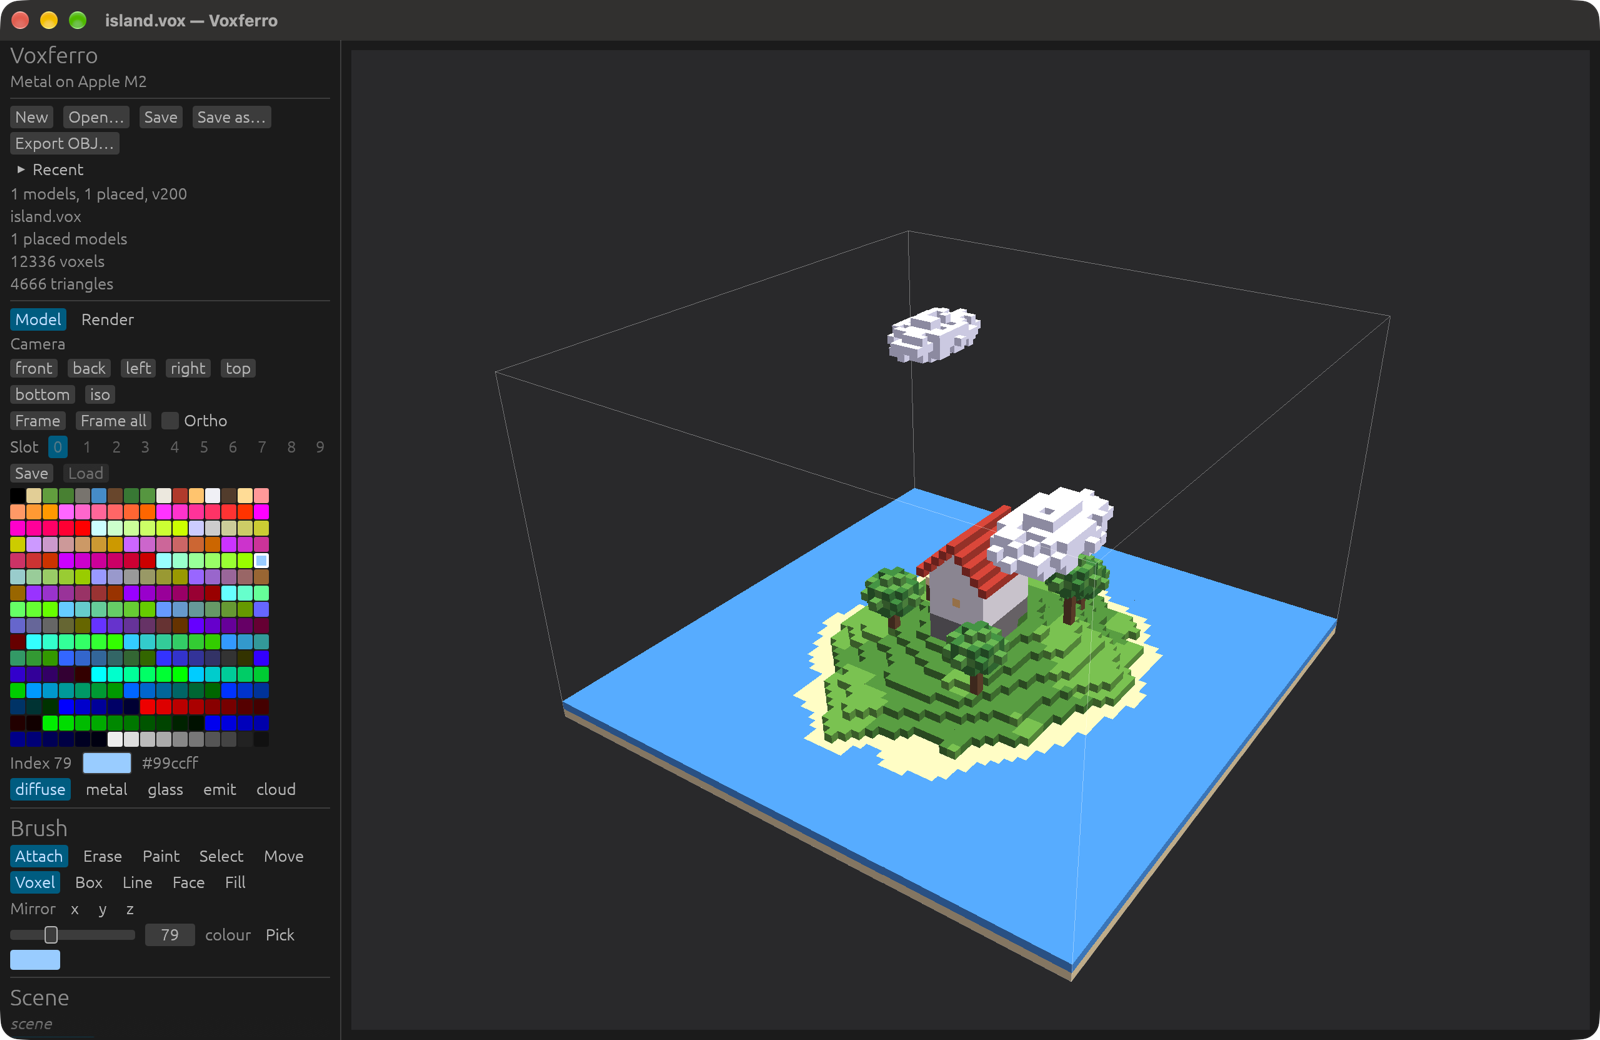
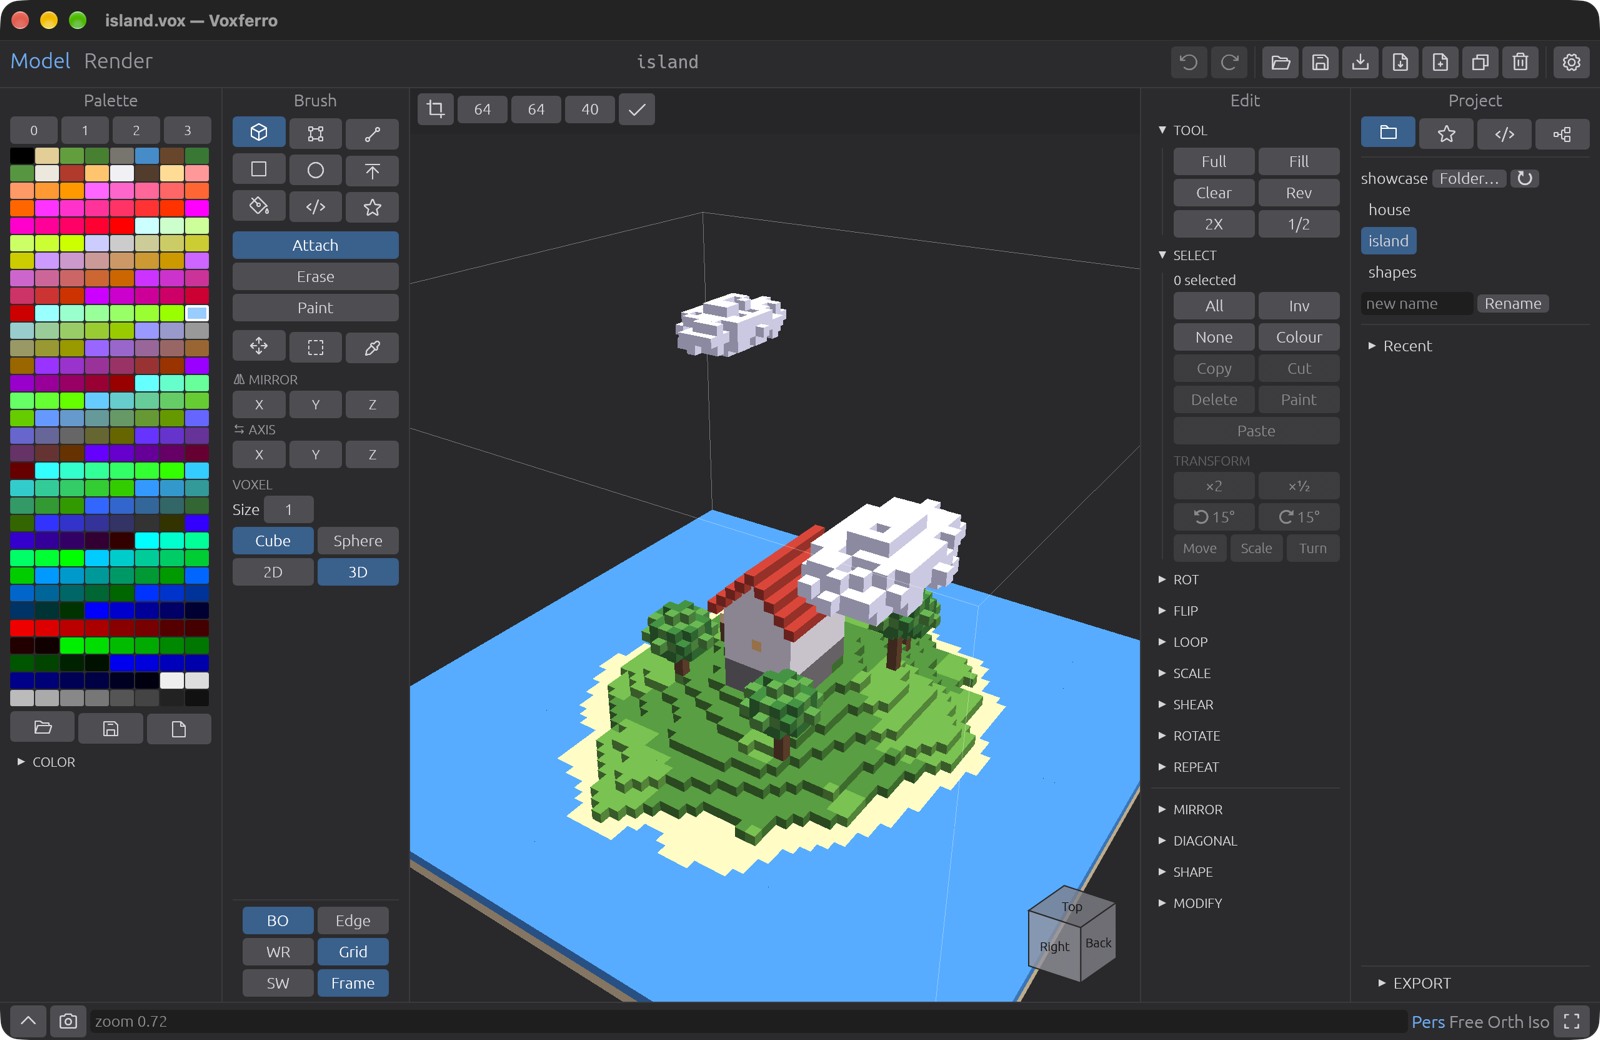
README: the new editor, a voxel-script scene and an isometric sprite
A screenshot of the editor's new layout, a scene built only with the
bundled voxel scripts (assets/showcase/scripts.cmds), and the island
exported as isometric sprites.

diff --git a/README.md b/README.md
@@ -28,10 +28,16 @@ samples.*
 | ![Shapes from the GPU kernels](assets/showcase/shapes.jpg) | ![A house built by an AI agent over MCP](assets/showcase/house.jpg) |
 | *Shapes from the GPU compute kernels: a gold metal torus, a glass shell with a glowing core and a rounded box ([`shapes.cmds`](assets/showcase/shapes.cmds)).* | *A house built by Claude through the MCP server: it chose the palette, built it in `run_commands` batches and checked its own renders ([`house.vox`](assets/showcase/house.vox)).* |
 
+| | |
+|---|---|
+| ![Voxel scripts: terrain, a Menger sponge and an eroded ball](assets/showcase/scripts.jpg) | ![The island exported as isometric pixel sprites](assets/showcase/island-iso.png) |
+| *Made by voxel scripts alone: hills from the `terrain` script in three colour bands, a gold Menger sponge from `menger`, a stone ball worn by three passes of `erode` ([`scripts.cmds`](assets/showcase/scripts.cmds)); 256 samples.* | *The island exported with `export iso`: four isometric pixel-art views, lit as the reference editor's iso export lights them.* |
+
 ![The editor](assets/showcase/editor.png)
 
-*The editor with the island open: palette, brushes, saved camera slots and
-the model's box and floor grid.*
+*The editor with the island open, laid out as the reference editor is: palette and
+brush on the left, the Edit and Project panels on the right, the console
+and camera modes along the bottom.*
 
 To rebuild a scene and render it yourself:
 
